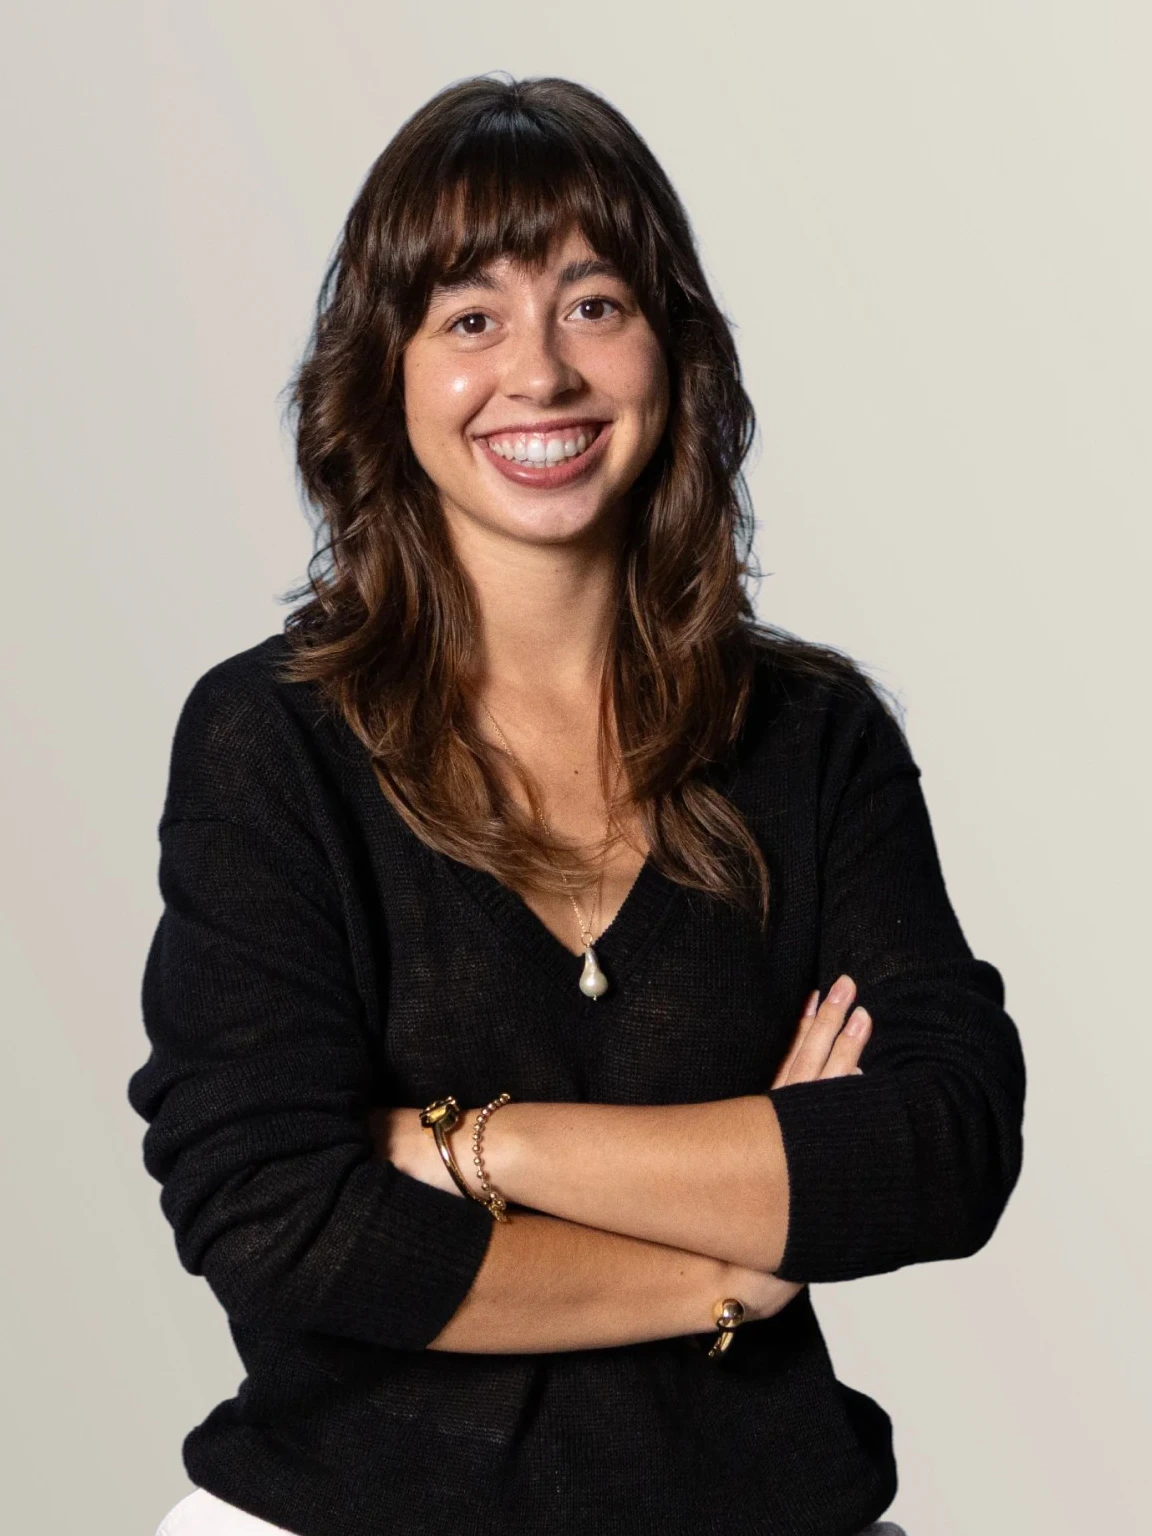
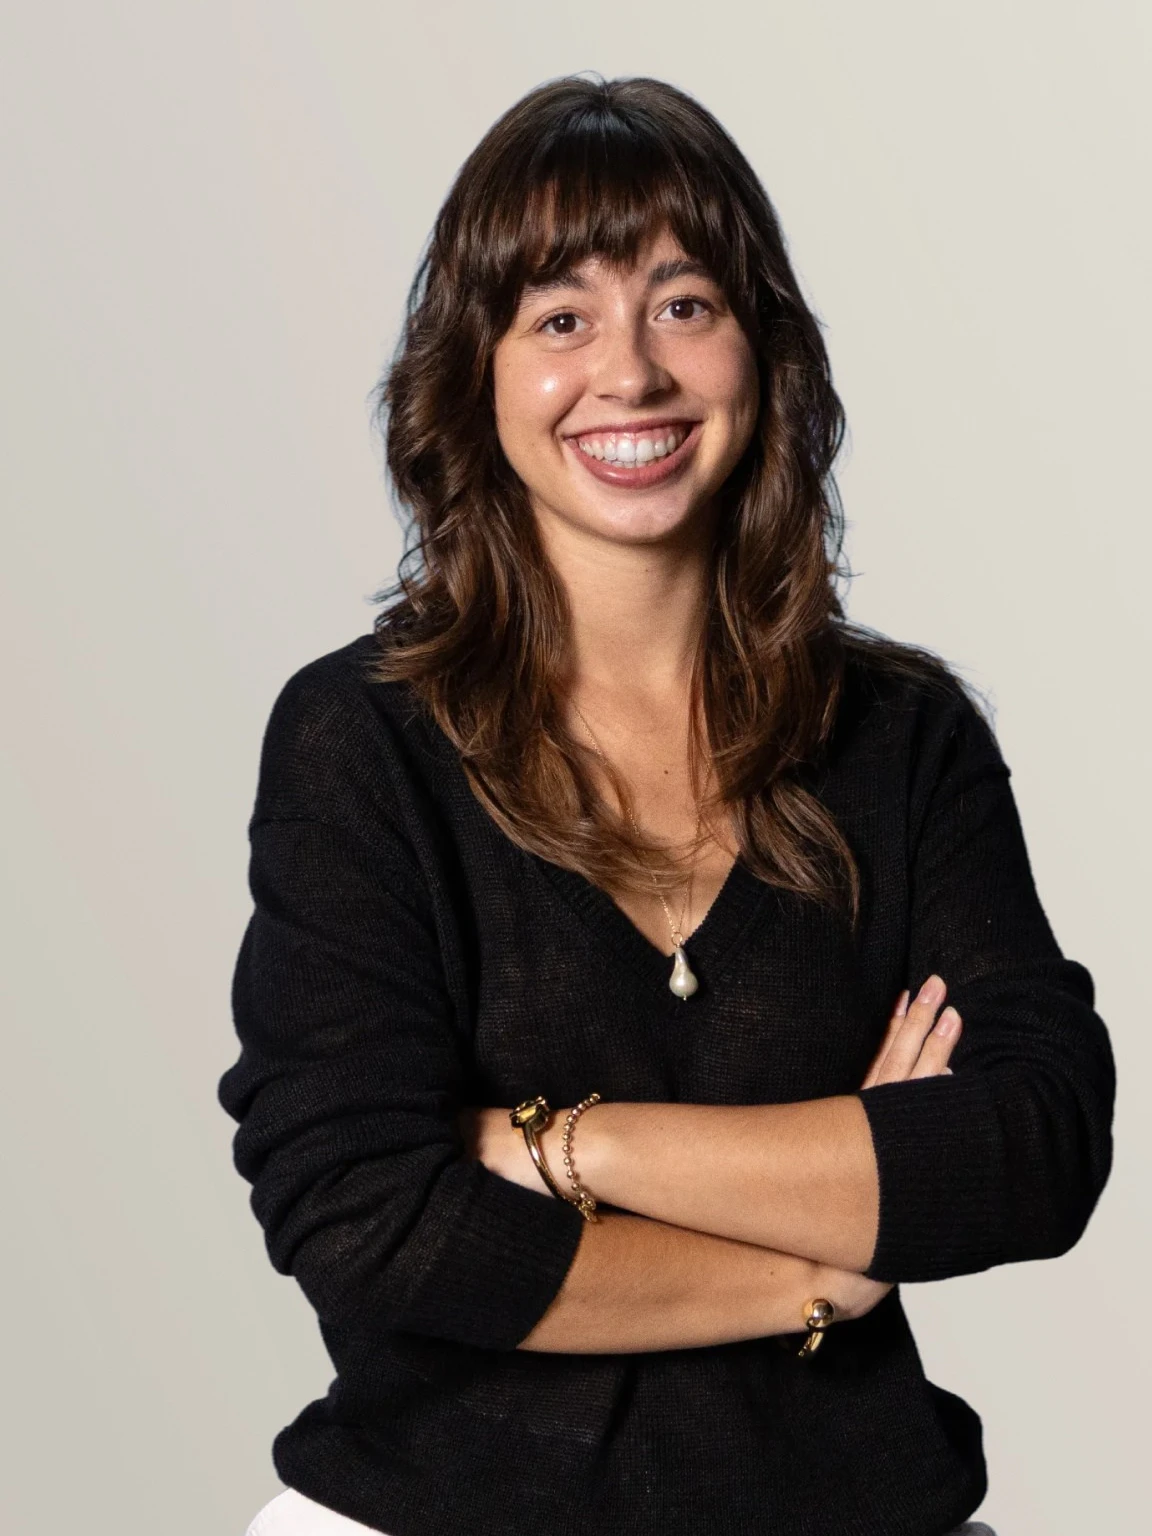
Revert hero photo recentering, back to tighter-zoom crop (#39)
Back to the framing from before the recenter (more background on the
left, tighter on the right) per feedback that the recentered version
wasn't the preferred look after all.

Claude-Session: https://claude.ai/code/session_01UdNCzaAcomZMptfJupRJ6t

diff --git a/index.html b/index.html
@@ -73,7 +73,7 @@
         </a>
       </div>
       <div class="photo-frame tilt-card">
-        <img src="assets/img/hero-portrait.webp?v=29" alt="Raquel Muzquiz Gil" class="photo-img">
+        <img src="assets/img/hero-portrait.webp?v=31" alt="Raquel Muzquiz Gil" class="photo-img">
       </div>
     </div>
   </div>
